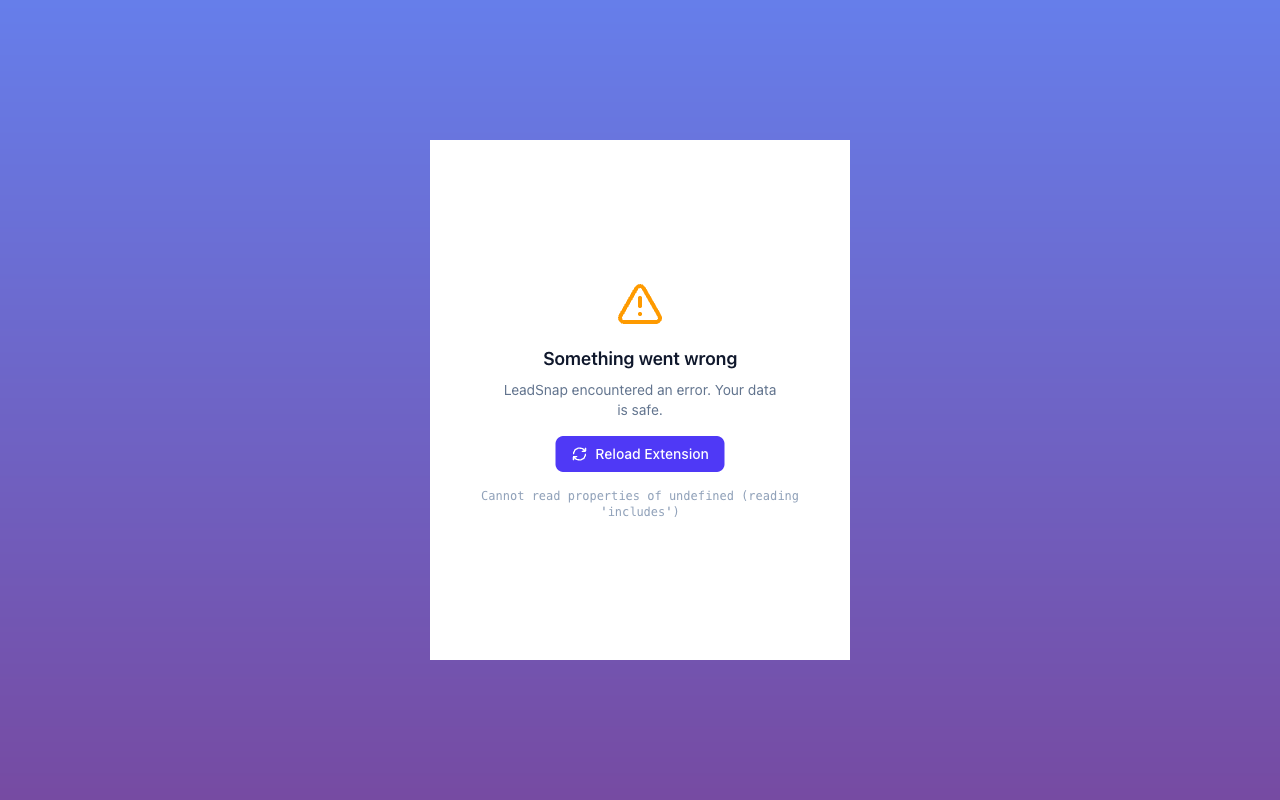
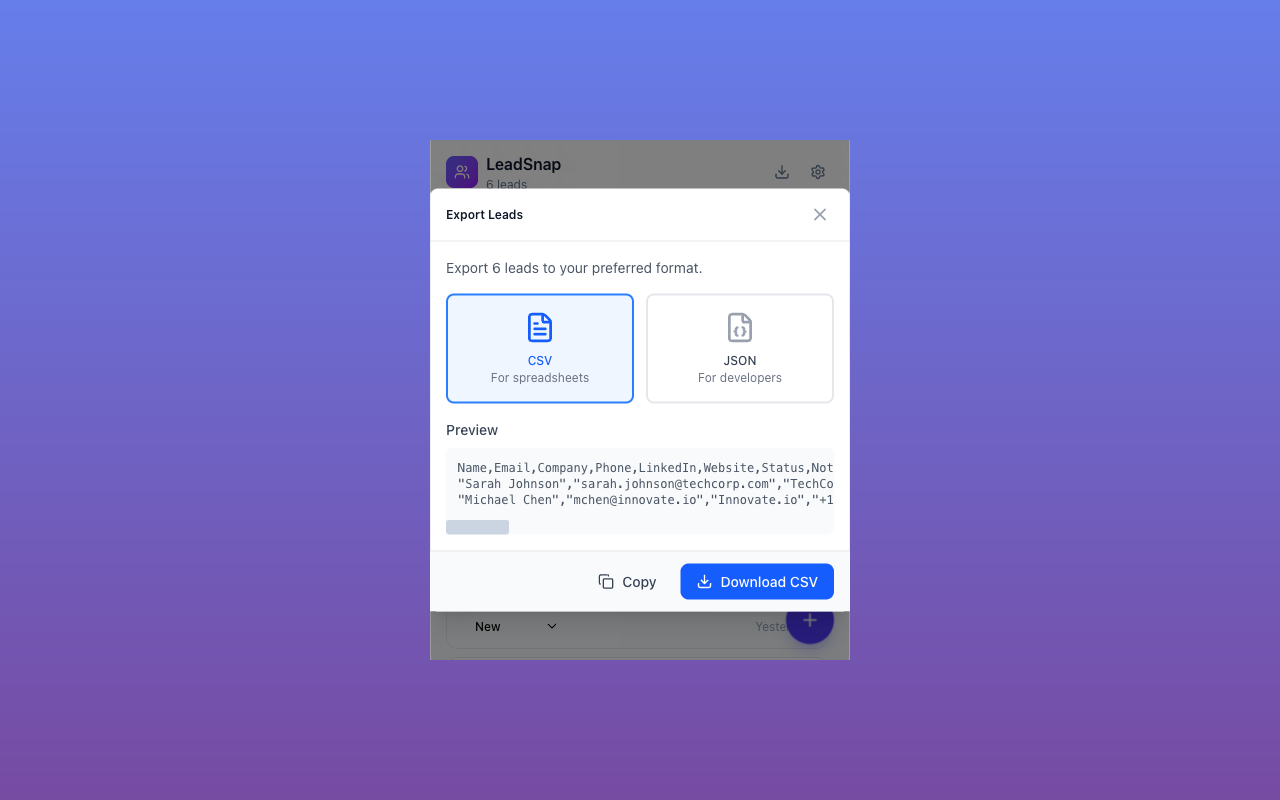
Fix CSV export crash when lead fields are undefined

Changed region(s): [[0.3438, 0.3125, 0.6562, 0.6875], [0.3125, 0.6875, 0.6875, 0.8438], [0.3125, 0.1562, 0.6875, 0.2812]]

diff --git a/src/lib/storage.ts b/src/lib/storage.ts
@@ -256,11 +256,12 @@ export const exportUtils = {
     ];
 
     // Helper to escape CSV fields (handles quotes and commas)
-    const escapeCSV = (field: string): string => {
-      if (field.includes('"') || field.includes(',') || field.includes('\n')) {
-        return field.replace(/"/g, '""');
+    const escapeCSV = (field: string | undefined | null): string => {
+      const str = field ?? '';
+      if (str.includes('"') || str.includes(',') || str.includes('\n')) {
+        return str.replace(/"/g, '""');
       }
-      return field;
+      return str;
     };
 
     const rows = leads.map(lead => [
@@ -270,9 +271,9 @@ export const exportUtils = {
       escapeCSV(lead.phone),
       escapeCSV(lead.linkedIn),
       escapeCSV(lead.website),
-      lead.status,
+      lead.status || 'new',
       escapeCSV(lead.notes),
-      escapeCSV(lead.tags.join('; ')),
+      escapeCSV((lead.tags || []).join('; ')),
       escapeCSV(lead.sourceUrl),
       new Date(lead.createdAt).toISOString(),
       new Date(lead.updatedAt).toISOString(),
